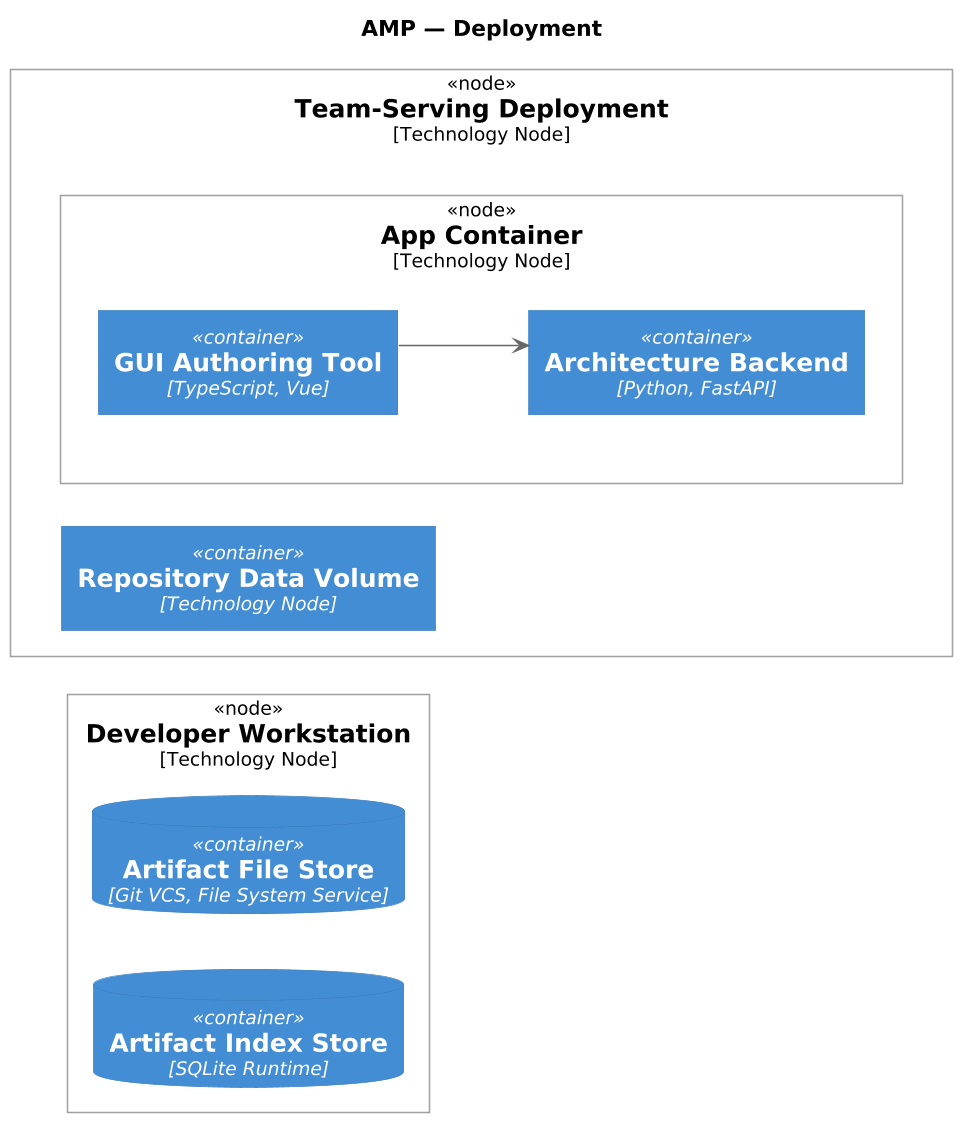
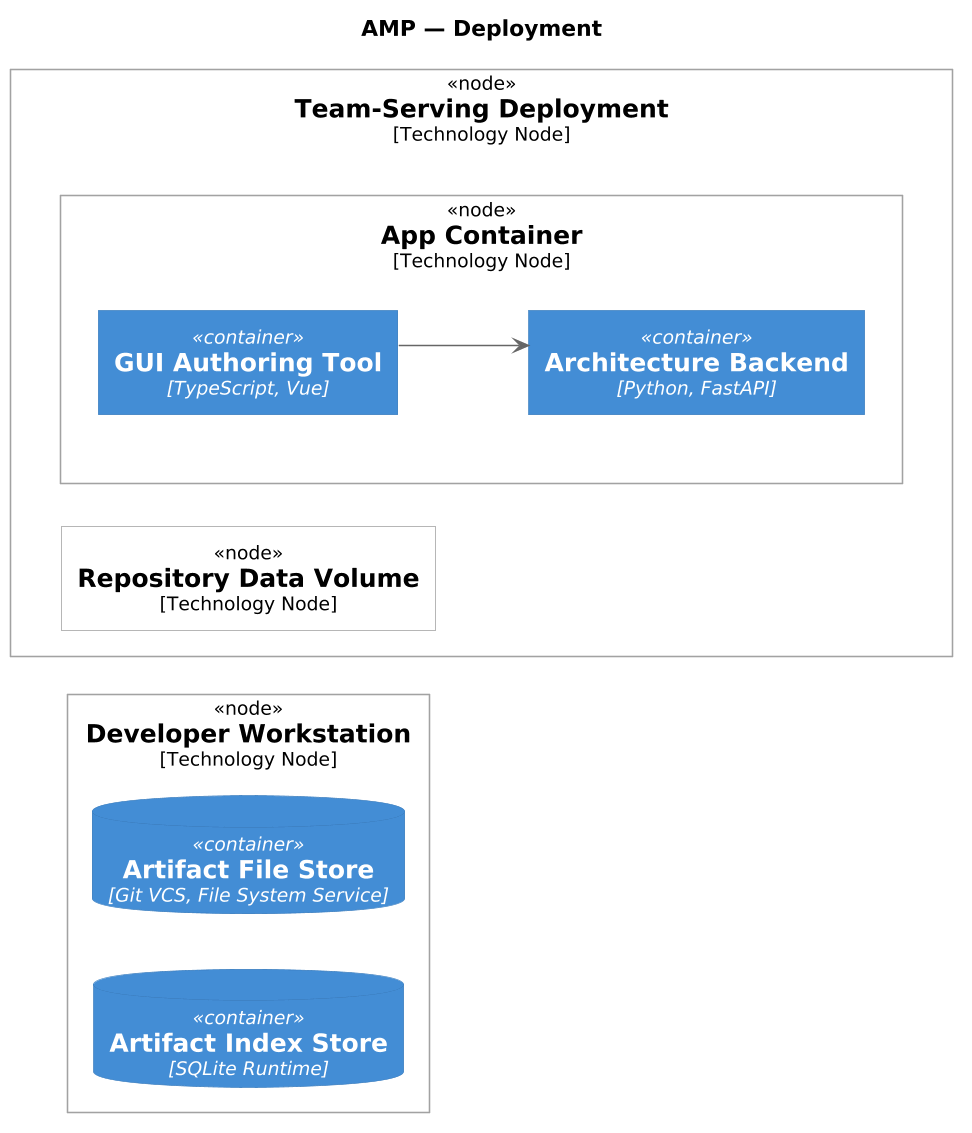
Diagram types: draw a deployment host as a node when it holds nothing
The C4 macro table had no row for `node`, so a host fell through to the fallback whose comment says
*unknown item type → generic container shape*. It stayed invisible while every host happened to hold
something, because a host with children never reaches that table — `_open_boundary` emits the
`Deployment_Node` macro for it. A host with none came out as `Container(...)`: an application
container glyph carrying the node's technology as its own, so a storage volume read as a deployed
application.

The shipped deployment view had one. It is reachable without any other defect too — a machine nobody
has modelled anything onto yet — and what a node is does not depend on what happens to be drawn
inside it.

Neither the store variant nor the external suffix is taken. A node is not a database whatever it
holds, and `Deployment_Node_Ext` is not defined by the C4 deployment stdlib: on the pinned PlantUML
1.2026.3 a body calling it reports errors and emits no diagram, while a childless `Deployment_Node`
renders as a «node» box. Both verified by rendering before the row was written.

`NODE_TYPE` names the item type the three modules that read it were each spelling: the projection
that builds the host items, the resolver that decides whether to show a technology beside one, and
this table — the one that had no row.

The stored view is re-rendered, and now says the volume is a node rather than an application.

Changed region(s): [[0.0617, 0.4634, 0.463, 0.556]]

diff --git a/tests/diagram_types/test_c4_a_node_is_drawn_as_a_node.py b/tests/diagram_types/test_c4_a_node_is_drawn_as_a_node.py
@@ -1,0 +1,58 @@
+"""A deployment host is drawn as a node whether or not anything is drawn inside it.
+
+The C4 macro table had no row for `node`, so a host fell through to the fallback whose own comment
+says *unknown item type → generic container shape*. That was invisible for as long as every host
+happened to hold something, because a host with children takes the other path entirely and opens a
+`Deployment_Node` boundary. A host with none renders as `Container(...)` — an **application
+container** glyph, labelled with its technology, which reads as a deployed application rather than
+the machine or volume it is.
+
+It is reachable two ways, and one of them is on the shipped model: a volume whose only container is
+also hosted elsewhere loses it to the other host, because containment resolves as a tree and a child
+has one parent. The other way needs no defect at all — a node nobody has modelled anything onto yet.
+
+What a node *is* does not depend on what happens to be drawn inside it, so the glyph must not either.
+"""
+
+from __future__ import annotations
+
+from src.diagram_types.c4.renderer import _c4_macro_name
+
+
+class TestTheMacroForAHost:
+    def test_a_node_is_a_deployment_node(self) -> None:
+        assert _c4_macro_name("node", "generic", False) == "Deployment_Node"
+
+    def test_a_node_holding_a_store_is_still_a_node(self) -> None:
+        """The `db` variant is inferred from technology, and a volume's technology can say storage.
+        A node is not a database, whatever it holds."""
+        assert _c4_macro_name("node", "db", False) == "Deployment_Node"
+
+    def test_a_node_is_not_reached_by_the_unknown_type_fallback(self) -> None:
+        """Guards the guard: if `node` ever stops being handled, this catches it as itself rather
+        than as an equality with whatever the fallback happens to return."""
+        assert _c4_macro_name("node", "generic", False) != _c4_macro_name(
+            "no-such-item-type", "generic", False
+        )
+
+
+class TestWhatDidNotChange:
+    def test_a_container_is_still_a_container(self) -> None:
+        assert _c4_macro_name("container", "generic", False) == "Container"
+
+    def test_a_container_holding_a_store_is_still_a_database(self) -> None:
+        assert _c4_macro_name("container", "db", False) == "ContainerDb"
+
+    def test_the_unknown_fallback_is_unchanged(self) -> None:
+        assert _c4_macro_name("no-such-item-type", "generic", False) == "Container"
+
+    def test_an_external_node_does_not_carry_a_suffix_that_does_not_exist(self) -> None:
+        """`Deployment_Node_Ext` is not defined by the C4 deployment stdlib. Verified against the
+        pinned PlantUML 1.2026.3: a body calling it reports *Some diagram description contains
+        errors* and emits no diagram, while a childless `Deployment_Node` renders as a «node» box.
+
+        So the `_Ext` suffix every other type takes would turn an external host into a broken
+        render. No host is external today — the projection builds them all with role `internal` —
+        which is what makes this a latent trap worth an assertion rather than a live bug.
+        """
+        assert _c4_macro_name("node", "generic", True) == "Deployment_Node"

diff --git a/src/diagram_types/c4/renderer.py b/src/diagram_types/c4/renderer.py
@@ -12,7 +12,7 @@ from collections.abc import Mapping, Sequence
 from pathlib import Path
 from typing import Any
 
-from src.diagram_types.c4._projection_vocabulary import GROUP_TYPE
+from src.diagram_types.c4._projection_vocabulary import GROUP_TYPE, NODE_TYPE
 from src.diagram_types.c4._resolve import _ResolvedItem, resolve_c4_state
 from src.domain.ontology_representation.artifact_types import ConnectionRecord, EntityRecord
 from src.domain.ontology_representation.ontology_protocol import DiagramRendererReferences
@@ -80,6 +80,16 @@ def _c4_macro_name(item_type: str, variant: str, external: bool) -> str:
         if variant == "queue":
             return f"ComponentQueue{ext}"
         return f"Component{ext}"
+    if item_type == NODE_TYPE:
+        # A deployment host, and no variant or suffix applies to it. `_open_boundary` emits the same
+        # macro for a host that holds something, so this is the *childless* case — and it had no row
+        # here at all, falling through to the container fallback below: a volume or a machine with
+        # nothing drawn inside it rendered as an application container labelled with its technology.
+        #
+        # Neither the store variant nor `_Ext` is taken. A node is not a database whatever it holds,
+        # and `Deployment_Node_Ext` is not defined by the C4 deployment stdlib — calling it on the
+        # pinned PlantUML produces no diagram at all.
+        return "Deployment_Node"
     return f"Container{ext}"  # unknown item type → generic container shape
 
 

diff --git a/src/diagram_types/c4/_resolve_model.py b/src/diagram_types/c4/_resolve_model.py
@@ -16,7 +16,7 @@ from src.diagram_types.c4._c4_types import (
     _ResolvedItem,
     _ResolvedState,
 )
-from src.diagram_types.c4._projection_vocabulary import is_externally_styled
+from src.diagram_types.c4._projection_vocabulary import NODE_TYPE, is_externally_styled
 from src.domain.diagrams.bindings import EXCLUDED_IDS_KEY, INCLUDED_IDS_KEY
 from src.domain.diagrams.diagram_selection import DiagramSelectionError
 from src.domain.ontology_representation.artifact_types import ConnectionRecord, EntityRecord
@@ -133,7 +133,7 @@ def _host_technology(item_type: str, artifact_type: str) -> str:
     The model's own type is what is known about a projected host — a reader learns something from
     "System Software" and nothing from "node", which is the C4 item type they can already see.
     """
-    if item_type != "node" or not artifact_type:
+    if item_type != NODE_TYPE or not artifact_type:
         return ""
     return artifact_type.replace("-", " ").title()
 

diff --git a/src/diagram_types/c4/_projection_vocabulary.py b/src/diagram_types/c4/_projection_vocabulary.py
@@ -85,6 +85,13 @@ LANDSCAPE_TYPE = "c4-system-landscape"
 #: The other axis: where a system's containers run, rather than what they contain.
 DEPLOYMENT_TYPE = "c4-deployment"
 
+#: A deployment host — the C4 item type every technology element the deployment axis draws is given.
+#: Named because three modules spelled it: the projection that builds the items, the resolver that
+#: decides whether a technology name is worth showing beside it, and the renderer's macro table. The
+#: macro table was the one that did not, and a host with nothing drawn inside it came out as an
+#: application container.
+NODE_TYPE = "node"
+
 #: The levels whose scope is a drawn node rather than a boundary wrapper — so the scope entity is
 #: part of what the diagram references. Spelled here beside the branches that classify those items,
 #: which is the same place the render mode's consequences are already decided.

diff --git a/src/diagram_types/c4/_projection_deployment.py b/src/diagram_types/c4/_projection_deployment.py
@@ -16,6 +16,7 @@ from src.diagram_types.c4._projection_vocabulary import (
     DEPLOYMENT_TYPE,
     NEIGHBOR_TYPES,
     NESTING_TYPES,
+    NODE_TYPE,
     C4ProjectedItem,
     C4Projection,
     entity_type,
@@ -142,7 +143,7 @@ def project_c4_deployment(
     enclosing = _enclosing_nodes(direct_hosts, query)
     hosts = direct_hosts | set(enclosing.values())
 
-    host_items = tuple(make(eid, "internal", "node") for eid in sorted(hosts))
+    host_items = tuple(make(eid, "internal", NODE_TYPE) for eid in sorted(hosts))
     container_items = tuple(
         make(cid, "internal", internal_c4_type) for cid, host_set in sorted(hosted.items()) if host_set
     )
